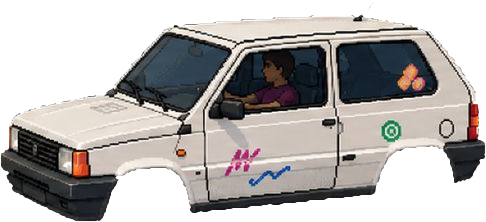
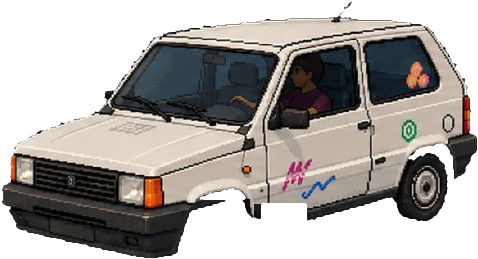
v34: Panda mit Raedern, schneller, Fahrlinie am Randstein

diff --git a/kaufvertrag_demo.html b/kaufvertrag_demo.html
@@ -917,7 +917,7 @@ ende: pxSzene('#000010', (R,D)=>{
    Liegen im Repo PNGs mit diesen Namen, werden sie automatisch
    statt der Pixel-Programme geladen. Fehlen sie: Pixel-Fallback.
    ===================================================== */
-const BILD_VERSION = '33';
+const BILD_VERSION = '34';
 function vurl(u){ return u + '?v=' + BILD_VERSION; }
 const SZENEN_BILDER = {
   titel:'kaufvertrag_titel.png',
@@ -1020,7 +1020,7 @@ function kaeufer(){ return KAEUFER[zustand.kaeuferin || 'm']; }
 const SPRITES = {
   titel: [
     { id:'auto', frames:['kaufvertrag_auto_0.png','kaufvertrag_auto_1.png','kaufvertrag_auto_2.png'],
-      x:660, y:182, w:88, h:42 },
+      x:660, y:198, w:88, h:48 },
   ],
   discount: [
     { id:'katze', frames:['kaufvertrag_katze_0.png','kaufvertrag_katze_1.png','kaufvertrag_katze_2.png',
@@ -1657,20 +1657,20 @@ function taubenStop(){ if(tauben.timer){ clearInterval(tauben.timer); tauben.tim
 const AUTO_FRAMES = ['kaufvertrag_auto_0.png','kaufvertrag_auto_1.png','kaufvertrag_auto_2.png'];
 const auto = { timer:null, phase:0, tick:0, x:660 };
 const AUTO_PLAN = [
-  { art:'lauf', bis:592, tempo:-3.0 },      /* von rechts zur Badge-Saeule */
-  { art:'pose', frame:2, ticks:16 },        /* halten, Arm raus, Badge */
-  { art:'lauf', bis:-110, tempo:-3.4 },     /* dem Randstein entlang links hinaus */
-  { art:'pause', ticks:300 },               /* ~36 s Ruhe, dann naechste Lehrperson */
+  { art:'lauf', bis:592, tempo:-5.5 },      /* zuegig von rechts heran */
+  { art:'pose', frame:2, ticks:14 },        /* kurz halten: Badge */
+  { art:'lauf', bis:-110, tempo:-6.5 },     /* zwischen Pfosten und Randstein hindurch, dem Randstein entlang */
+  { art:'pause', ticks:240 },               /* ~29 s Ruhe, dann naechste Lehrperson */
 ];
 function autoBasis(x){
-  /* Fahrbahn faellt schraeg nach unten links */
-  return x > 592 ? 224 + (660-x)*0.06 : 228 + (592-x)*0.058;
+  /* Fahrlinie: unterhalb der kleinen Pfosten, dem Randstein entlang leicht abfallend */
+  return 246 + (660-x)*0.03;
 }
 function autoZeichne(frame){
   const el = document.getElementById('sp-auto');
   if(!el) return;
   el.setAttribute('x', auto.x);
-  el.setAttribute('y', autoBasis(auto.x) - 42);
+  el.setAttribute('y', autoBasis(auto.x) - 48);
   el.setAttribute('href', vurl(AUTO_FRAMES[frame]));
 }
 function autoTick(){

diff --git a/kaufvertrag_fd642d69.html b/kaufvertrag_fd642d69.html
@@ -918,7 +918,7 @@ ende: pxSzene('#000010', (R,D)=>{
    Liegen im Repo PNGs mit diesen Namen, werden sie automatisch
    statt der Pixel-Programme geladen. Fehlen sie: Pixel-Fallback.
    ===================================================== */
-const BILD_VERSION = '33';
+const BILD_VERSION = '34';
 function vurl(u){ return u + '?v=' + BILD_VERSION; }
 const SZENEN_BILDER = {
   titel:'kaufvertrag_titel.png',
@@ -1021,7 +1021,7 @@ function kaeufer(){ return KAEUFER[zustand.kaeuferin || 'm']; }
 const SPRITES = {
   titel: [
     { id:'auto', frames:['kaufvertrag_auto_0.png','kaufvertrag_auto_1.png','kaufvertrag_auto_2.png'],
-      x:660, y:182, w:88, h:42 },
+      x:660, y:198, w:88, h:48 },
   ],
   discount: [
     { id:'katze', frames:['kaufvertrag_katze_0.png','kaufvertrag_katze_1.png','kaufvertrag_katze_2.png',
@@ -1658,20 +1658,20 @@ function taubenStop(){ if(tauben.timer){ clearInterval(tauben.timer); tauben.tim
 const AUTO_FRAMES = ['kaufvertrag_auto_0.png','kaufvertrag_auto_1.png','kaufvertrag_auto_2.png'];
 const auto = { timer:null, phase:0, tick:0, x:660 };
 const AUTO_PLAN = [
-  { art:'lauf', bis:592, tempo:-3.0 },      /* von rechts zur Badge-Saeule */
-  { art:'pose', frame:2, ticks:16 },        /* halten, Arm raus, Badge */
-  { art:'lauf', bis:-110, tempo:-3.4 },     /* dem Randstein entlang links hinaus */
-  { art:'pause', ticks:300 },               /* ~36 s Ruhe, dann naechste Lehrperson */
+  { art:'lauf', bis:592, tempo:-5.5 },      /* zuegig von rechts heran */
+  { art:'pose', frame:2, ticks:14 },        /* kurz halten: Badge */
+  { art:'lauf', bis:-110, tempo:-6.5 },     /* zwischen Pfosten und Randstein hindurch, dem Randstein entlang */
+  { art:'pause', ticks:240 },               /* ~29 s Ruhe, dann naechste Lehrperson */
 ];
 function autoBasis(x){
-  /* Fahrbahn faellt schraeg nach unten links */
-  return x > 592 ? 224 + (660-x)*0.06 : 228 + (592-x)*0.058;
+  /* Fahrlinie: unterhalb der kleinen Pfosten, dem Randstein entlang leicht abfallend */
+  return 246 + (660-x)*0.03;
 }
 function autoZeichne(frame){
   const el = document.getElementById('sp-auto');
   if(!el) return;
   el.setAttribute('x', auto.x);
-  el.setAttribute('y', autoBasis(auto.x) - 42);
+  el.setAttribute('y', autoBasis(auto.x) - 48);
   el.setAttribute('href', vurl(AUTO_FRAMES[frame]));
 }
 function autoTick(){
